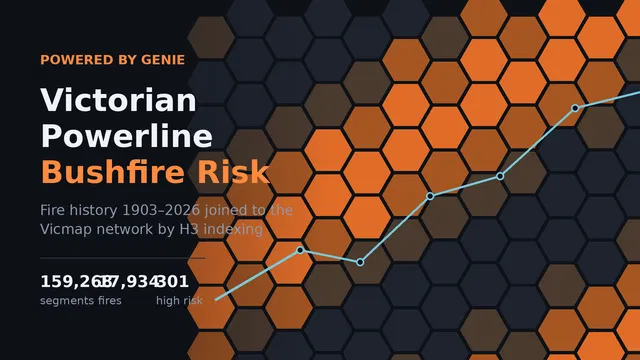
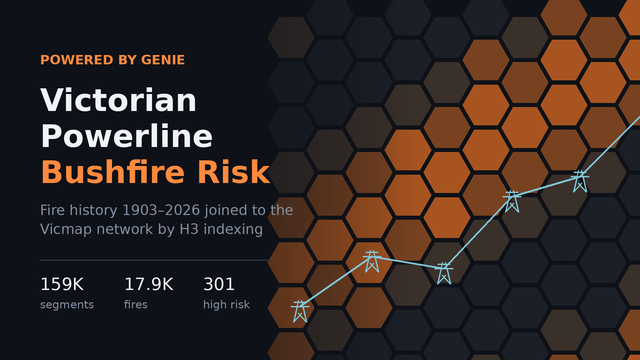
app enhancement, adding map feature

diff --git a/app/app.py b/app/app.py
@@ -53,6 +53,61 @@ CHALLENGE_URL = os.environ.get(
     "databricks-community-contest-genie-powered-app-challenge/ev-p/165825",
 )
 
+GLOSSARY = [
+    (
+        "SWER line",
+        "Single Wire Earth Return. A cheap way to electrify remote farmland: "
+        "one wire instead of two or three, using the earth itself as the "
+        "return path. Long spans, few poles, mostly through bush. Victoria has "
+        "26,646 of these segments and they are measurably more fire-exposed "
+        "than the rest of the high voltage network.",
+    ),
+    (
+        "Segment",
+        "One stretch of powerline as published in the state's mapping data. "
+        "There is no standard length — a segment may be 200 metres of suburban "
+        "line or 100 kilometres of transmission route. That is why exposure is "
+        "also given as a percentage of each segment's own length.",
+    ),
+    (
+        "High voltage vs low voltage",
+        "High voltage is the network that carries power between towns and along "
+        "rural roads, typically 22kV or 12.7kV. Low voltage is the last stretch "
+        "into houses. Low voltage is excluded here: it is mostly urban, short, "
+        "and often underground, so it carries little bushfire risk.",
+    ),
+    (
+        "Fire season",
+        "July to June, labelled by the year it ends. Season 2020 covers the "
+        "summer of 2019–20, which is the season often called Black Summer.",
+    ),
+    (
+        "Major bushfire",
+        "A bushfire of 1,000 hectares or more. The distinction matters: without "
+        "it, six small grassfires on Melbourne's fringe rank alongside the "
+        "campaign fires that burn through Gippsland.",
+    ),
+    (
+        "Planned burn",
+        "A fire lit deliberately by the fire agency to reduce fuel before "
+        "summer. Most fires in the record are these. They indicate active "
+        "management, not risk, and are counted separately throughout.",
+    ),
+    (
+        "Exposure band",
+        "How many major bushfires have come near a stretch of line. "
+        "None (never), Low (one), Moderate (two or three), High (four or "
+        "more). 301 segments are High.",
+    ),
+    (
+        "H3 hexagons",
+        "The method used to work out which fires came near which powerlines. "
+        "Both are converted into a grid of hexagonal cells about 460 metres "
+        "across, and anything sharing a cell is treated as near. It is an "
+        "approximation, and about as precise as the source data deserves.",
+    ),
+]
+
 SUGGESTED_QUESTIONS = [
     "Which councils have the most bushfire-exposed powerline network?",
     "Are SWER lines more exposed to bushfire than other high voltage lines?",
@@ -311,6 +366,23 @@ def render_header() -> None:
     st.divider()
 
 
+def render_glossary() -> None:
+    """Terms a reader outside the industry will not know.
+
+    SWER in particular carries the app's headline finding, and nobody outside
+    electricity distribution has heard of it.
+    """
+    body = "\n\n".join(f"**{term}**  \n{text}" for term, text in GLOSSARY)
+
+    popover = getattr(st, "popover", None)
+    if popover is not None:
+        with popover("Data glossary", use_container_width=True):
+            st.markdown(body)
+    else:
+        with st.expander("Data glossary"):
+            st.markdown(body)
+
+
 def render_sidebar() -> None:
     """The semantic layer is 90% of the work and 0% visible. This fixes that."""
     with st.sidebar:
@@ -343,9 +415,19 @@ def render_sidebar() -> None:
         st.divider()
         st.subheader("How this works")
         st.markdown(
-            "Every question goes to a **Genie Agent** which writes SQL against "
-            "three curated views. No question is pre-built — ask anything the "
-            "data can answer."
+            "Every question goes to a **Genie Agent**, which writes the SQL "
+            "itself. Nothing here is a pre-built report — ask anything the data "
+            "can answer."
+        )
+        st.markdown(
+            """
+            It has three tables to work with:
+
+            - **The network** — one row for each stretch of powerline, with what
+              has burnt near it
+            - **The fires** — one row for each fire since 1903
+            - **The link between them** — which fires touched which stretches
+            """
         )
 
         with st.expander("Where the data comes from"):
@@ -367,20 +449,42 @@ def render_sidebar() -> None:
         with st.expander("What Genie has been taught"):
             st.markdown(
                 """
-                The data has traps. Genie is instructed around each of them:
+                Public data has traps in it. Six of them would produce answers
+                that look right and are wrong, so Genie is told about each one.
 
-                - **Seasons run July to June.** Season 2020 is the 2019/20 summer.
-                - **Planned burns are not bushfires.** They outnumber bushfires
-                  and indicate fuel management, not risk.
-                - **Fires are mapped as many polygons.** One fire can be 868
-                  fragments, so everything counts distinct fires.
-                - **Areas cannot be summed.** Polygons overlap; a total would
-                  roughly double count.
-                - **Cause is known for ~3% of fires.** Any cause answer is a
-                  floor, not a total.
-                - **Segments vary from 200 m to 100 km.** Raw counts favour long
-                  transmission lines, so exposure is also expressed as a
-                  percentage of segment length.
+                **A fire season is not a calendar year.** Victorian fire seasons
+                run July to June, and the record labels each one by the year it
+                ends. Season 2020 means the summer of 2019–20. Ask about "the
+                2019 fires" and Genie checks which you mean.
+
+                **Planned burns are not bushfires.** Most fires in the record
+                are controlled burns lit deliberately by the fire agency to
+                reduce fuel. Counting them alongside bushfires would measure
+                fire *management* and call it fire *risk*. They are kept apart.
+
+                **One fire is drawn as many shapes.** When a fire is mapped, the
+                agency records it as dozens or hundreds of separate patches —
+                one large fire in 2019–20 has 868 of them. Counting shapes would
+                say a single fire happened 868 times. Everything counts distinct
+                fires instead.
+
+                **Burnt areas cannot be added up.** Those shapes overlap each
+                other, so adding their areas roughly doubles the real figure. If
+                you ask for total hectares burnt, Genie will explain why it
+                cannot give you one.
+
+                **Most fires have no recorded cause.** Only about 3 in every 100
+                fires were ever investigated closely enough to record what
+                started them. So when Genie says eight fires were caused by
+                powerlines, that means eight *confirmed* — the real number is
+                higher, and nobody knows by how much.
+
+                **Powerline segments come in wildly different lengths.** The
+                network is published as segments, and one may be 200 metres of
+                suburban line while another is 100 kilometres of transmission
+                route. A long line crosses more fires simply by being long. So
+                exposure is also measured as a *percentage of each segment's own
+                length*, which compares fairly regardless of size.
                 """
             )
 
@@ -393,6 +497,11 @@ def render_sidebar() -> None:
                   fires undercount councils affected.
                 - Pre-1980 records lack region, district and cause.
                 """
+            )
+
+        with st.expander("Data glossary"):
+            st.markdown(
+                "\n\n".join(f"**{t}**  \n{d}" for t, d in GLOSSARY)
             )
 
         st.divider()
@@ -434,6 +543,25 @@ def pick_chart(df: pd.DataFrame) -> Optional[str]:
     return "bar"
 
 
+def _is_year_column(name: str, values: pd.Series) -> bool:
+    """A year is numeric but not a quantity. Formatting it with a thousands
+    separator turns 2020 into "2,020", which looks like a bug because it is
+    one."""
+    lowered = name.lower()
+    if any(k in lowered for k in ("season", "year")):
+        return True
+    # Catch columns Genie names something else but which hold only plausible
+    # years, e.g. a bare "burnt" column of 1903-2026 values.
+    numeric = values.dropna()
+    if numeric.empty:
+        return False
+    return bool(
+        (numeric % 1 == 0).all()
+        and numeric.between(1800, 2100).all()
+        and numeric.nunique() > 1
+    )
+
+
 def render_result(turn: GenieTurn, key: str) -> None:
     """Everything below the prose answer: SQL, table, chart, download."""
     if turn.sql:
@@ -448,10 +576,16 @@ def render_result(turn: GenieTurn, key: str) -> None:
     df = pd.DataFrame(rows_to_records(turn))
 
     # Values arrive as strings; convert what is genuinely numeric so charts
-    # and sorting behave.
+    # and sorting behave. Years and seasons are the exception: they are
+    # numeric but not quantities, and Streamlit renders them with a thousands
+    # separator, so 2020 becomes "2,020".
     for col in df.columns:
         converted = pd.to_numeric(df[col], errors="coerce")
-        if converted.notna().all():
+        if not converted.notna().all():
+            continue
+        if _is_year_column(str(col), converted):
+            df[col] = converted.astype("Int64").astype(str)
+        else:
             df[col] = converted
 
     chart = pick_chart(df)
@@ -611,6 +745,8 @@ def main() -> None:
                 "Or type your own below. Follow-ups keep the thread, so "
                 "\"just the top three\" works after any answer."
             )
+
+            render_glossary()
     else:
         replay_history()
 
